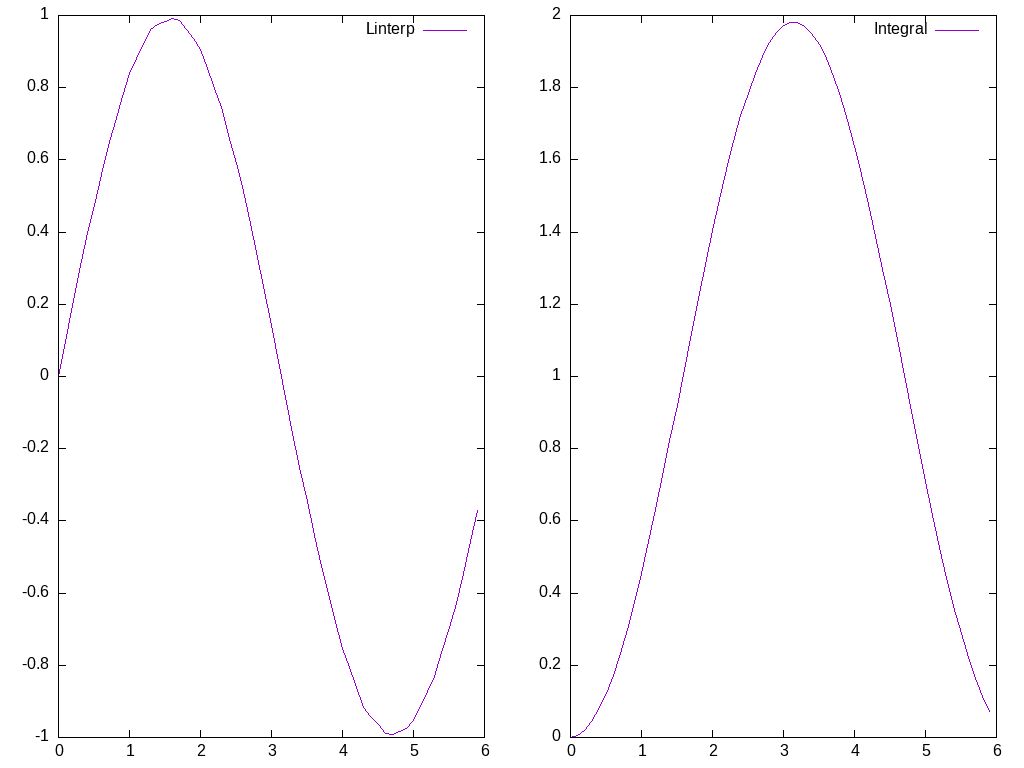
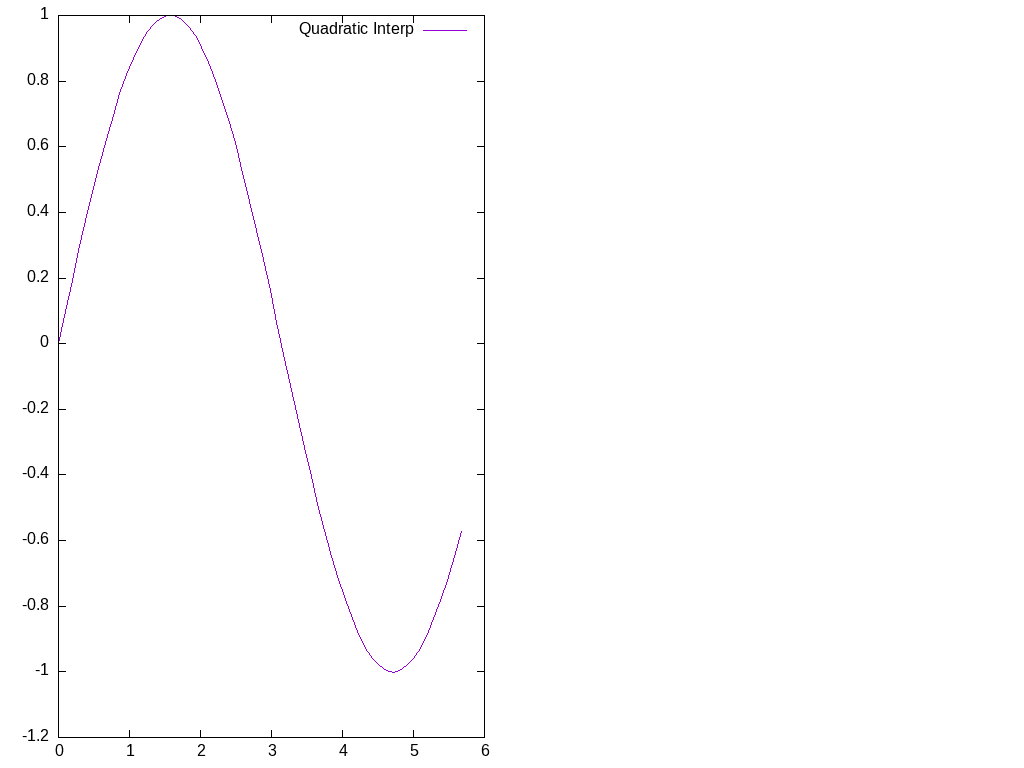
Splines part B

diff --git a/homeworks/splines/spline.cs b/homeworks/splines/spline.cs
@@ -4,8 +4,8 @@ public class qspline{
 	vector x,y,b,c;
 	public qspline(vector xs, vector ys){
 	  /* copy xs,ys into x,y and build b,c */
-	  x = xs;
-	  y = ys;
+	  x = xs.copy();
+	  y = ys.copy();
 	}
 	public double evaluate(double z){
 	  /* evaluate the spline using x,y,b,c */
@@ -51,4 +51,58 @@ public class qspline{
 
     return sum;
   }
+}
+
+public class quadraticspline {
+	vector x,y,b,c;
+	public quadraticspline(vector xs, vector ys){
+	  x = xs.copy();
+	  y = ys.copy();
+
+	  int n = x.size;
+
+	  b = new vector(n - 1);
+	  c = new vector(n - 1);
+
+    vector p = new vector(n - 1);
+    vector h = new vector(n - 1);
+
+    for (int i = 0; i < n - 1; i++) {
+      h[i] = x[i+1] - x[i];
+      p[i] = (y[i + 1] - y[i]) / h[i];
+    }
+
+    for (int i = 0; i < n - 2; i++) {
+      c[i + 1] = (p[i + 1] - p[i] - c[i] * h[i]) / h[i + 1];
+    }
+
+    c[n - 2] /= 2;
+
+    for (int i = n - 3; i >= 0; i--) {
+      c[i] = (p[i + 1] - p[i] - c[i+1]*h[i+1])/h[i];
+    }
+
+    for (int i = 0; i < n - 1; i++) {
+      b[i] = p[i] - c[i]*h[i];
+    }
+	}
+	public double evaluate(double z){
+	  int n = x.size;
+	  if (z < x[0] || z > x[n - 1]) {
+	    throw new ArgumentException("z is outside the range of x.");
+	  }
+
+	  int i = 0, j = n - 1;
+
+	  while (j - i > 1) {
+	    int m = (i+j)/2;
+	    if (z > x[m])
+	      i = m;
+	    else
+	      j = m;
+	  }
+
+	  double h = z-x[i];
+	  return y[i] + h*(b[i] + h*c[i]);
+	}
 }

diff --git a/homeworks/splines/main.cs b/homeworks/splines/main.cs
@@ -1,5 +1,22 @@
 using System;
+using static System.Math;
 
+
+class data {
+  public static (vector, vector) generate_sin() {
+    int n = 30;
+    vector x = new vector(n);
+    vector y = new vector(n);
+
+    for (int i = 0; i < n; i++) {
+      double z = (double) i / 5.0;
+      x[i] = z;
+      y[i] = Sin(z);
+    }
+
+    return (x, y);
+  }
+}
 
 class exercises {
   public static vector genlist2vec(genlist<double> gl) {
@@ -38,10 +55,23 @@ class exercises {
       Console.WriteLine($"{z},{integ}");
     }
   }
+
+  public static void partB() {
+    (vector x, vector y) = data.generate_sin();
+    quadraticspline qs = new quadraticspline(x,y);
+
+    Console.WriteLine("\n\nQuadratic Interp");
+    for (int i = 0; i < 60; i++) {
+      double z = (double) i / 10.4;
+
+      Console.WriteLine($"{z},{qs.evaluate(z)}");
+    }
+  }
 }
 
 public class main {
   public static void Main() {
     exercises.partA();
+    exercises.partB();
   }
 }

diff --git a/README.md b/README.md
@@ -5,14 +5,14 @@
 | 1  | LinEq         | 6 | 3 | 1 | 10  |
 | 2  | EVD           | 6 | 3 | - |  9  |
 | 3  | LeastSquares  | 6 | 3 | - |  9  |
-| 4  | Splines       | 6 | - | - |  6  |
+| 4  | Splines       | 6 | 3 | - |  9  |
 | 5  | ODE           | 6 | 3 | - |  9  |
 | 6  | Integration   | 6 | 3 | - |  9  |
 | 7  | MonteCarlo    | 6 | - | - |  6  |
 | 8  | Roots         | 6 | - | - |  6  |
 | 9  | Minimisation  | 6 | 3 | - |  9  |
 | 10 | NeuralNetwork | 6 | - | - |  6  |
-| | | | | |          total points: 79  |
+| | | | | |          total points: 82  |
 
 # Exam
 
